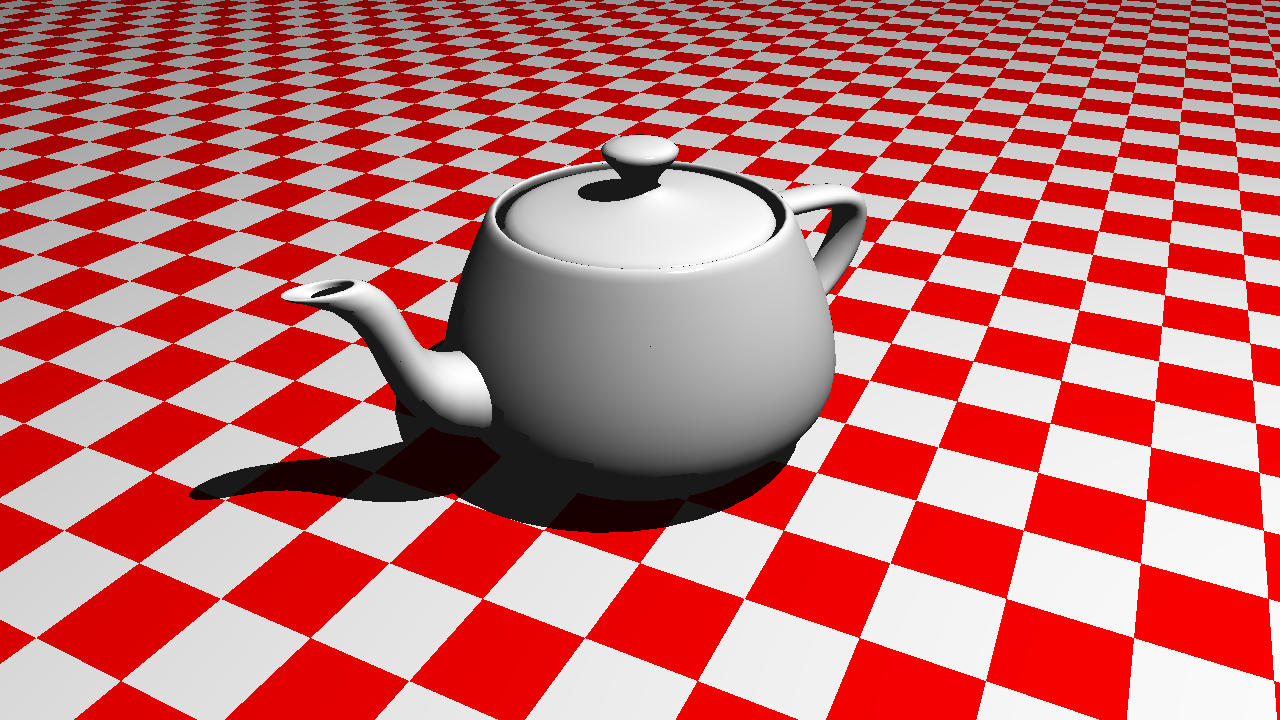
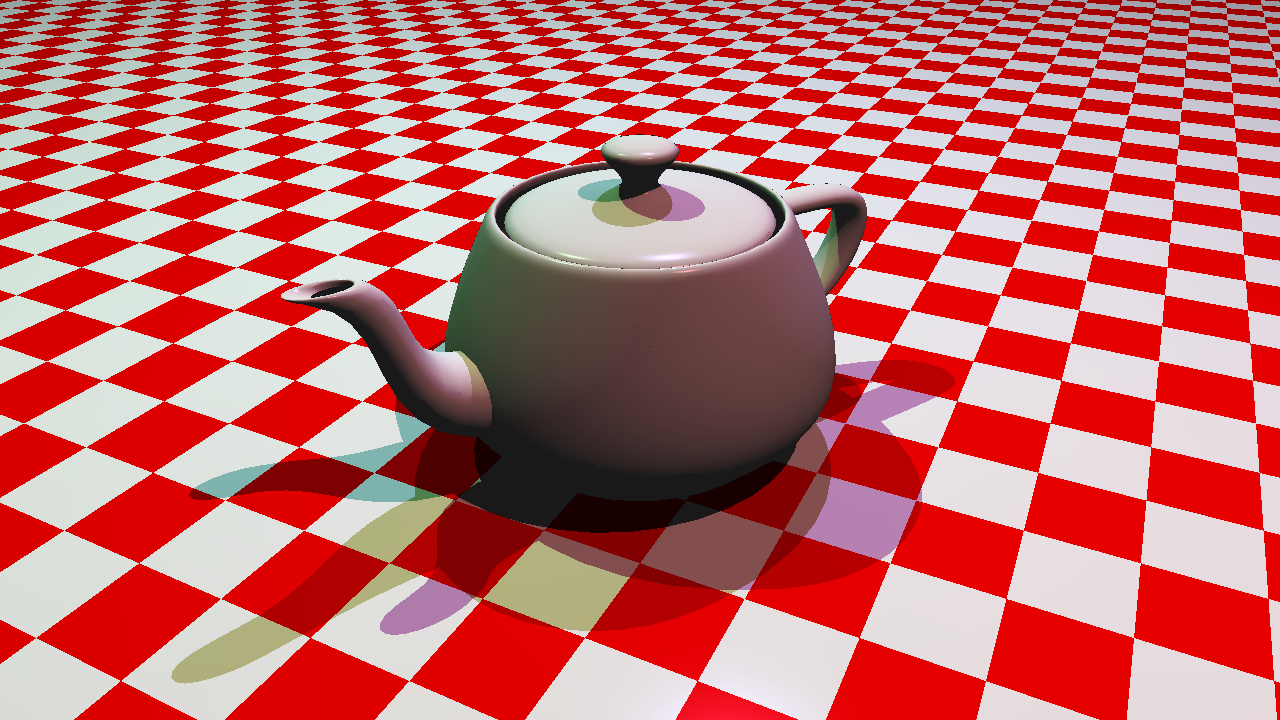
Multilight

diff --git a/demo-lib/src/test_scenes/teapot.rs b/demo-lib/src/test_scenes/teapot.rs
@@ -1,8 +1,8 @@
 use crate::obj;
 use crate::test_scenes::TestScene;
 use math::matrix::matrix_4x4::Matrix4x4;
-use math::tuple::color::{RED, WHITE};
-use math::{degrees, point, vector};
+use math::tuple::color::{BLUE, GREEN, RED, WHITE};
+use math::{color, degrees, point, vector};
 use ray_tracer::camera::Camera;
 use ray_tracer::canvas::Size;
 use ray_tracer::lighting::PointLight;
@@ -38,7 +38,9 @@ impl TestScene for Teapot {
 
         let mut world = World::default();
         world.add(world_scene);
-        world.add_light(PointLight::new(point!(2, 20, 10), *WHITE));
+        world.add_light(PointLight::new(point!(2, 20, 10), color!(1, 0.5, 0.5) * 0.5));
+        world.add_light(PointLight::new(point!(-2, 20, -10), color!(0.5, 1, 0.5) * 0.5));
+        world.add_light(PointLight::new(point!(-10, 20, -2), color!(0.5, 0.5, 1) * 0.5));
         world
     }
 
